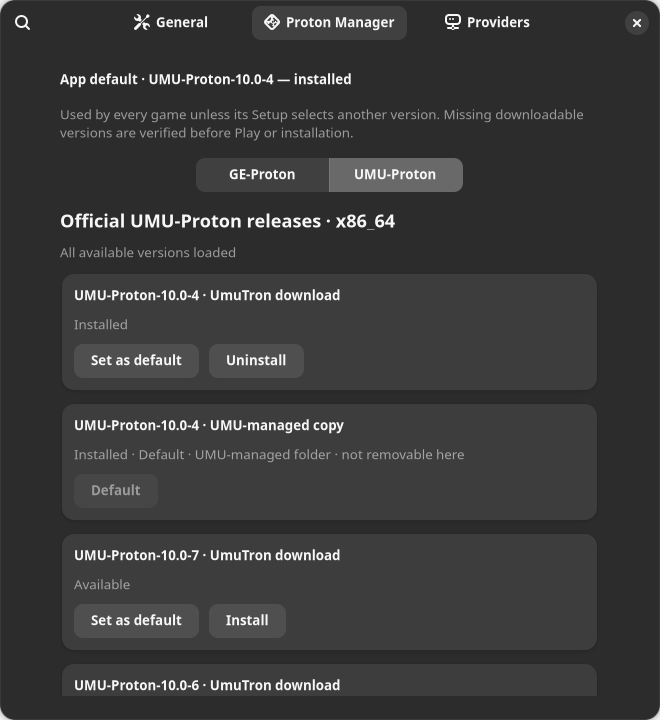
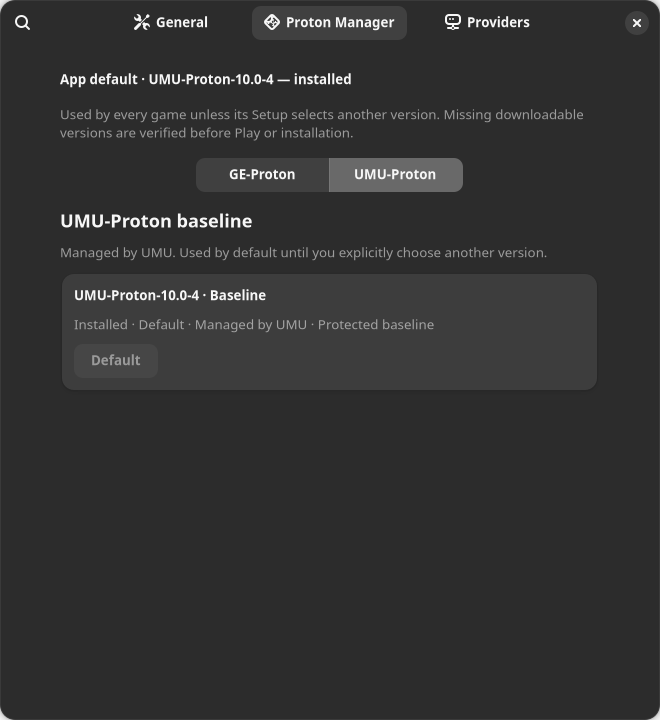
Show one protected UMU baseline with optional GE releases
Display the existing UMU-Latest runner once without removal controls or duplicate installation labels. Preserve the existing fresh-library UMU fallback and every explicit manual default; Settings neither installs runners nor loads a UMU release catalog. Existing UMU directories and exact release receipts remain unchanged.

Validation:108 core tests, focused native baseline/default fixtures, full UI smoke, Ruff and compilation pass. Native test renders inspected.

diff --git a/tools/proton_checks.py b/tools/proton_checks.py
@@ -61,6 +61,20 @@ with tempfile.TemporaryDirectory(prefix='umutron-proton-ui-') as temp:
     with tarfile.open(archive,'w:gz') as output:
         data=b'inert';item=tarfile.TarInfo(tag+'/proton');item.size=len(data);item.mode=0o755;output.addfile(item,io.BytesIO(data))
     manager=ProtonManager(library.root/'proton-manager',arch='x86_64',umu_root=Path(temp)/'umu/compatibilitytools');window.proton_manager=manager
+    # Fresh setup inherits UMU-Latest; Settings never installs either family.
+    fresh_before=library.path.read_bytes()
+    with patch.object(manager,'install') as install, patch.object(manager,'downloader') as downloader:
+        window.open_settings();settle()
+        fresh_settings=next(w for w in Gtk.Window.get_toplevels() if w.get_title()=='Settings' and w.get_visible())
+        fresh=window.proton_panel
+        baseline=next(c for c in fresh.controls if c['baseline'])
+        assert baseline['value']=='UMU-Latest' and baseline['default'].get_label()=='Default'
+        assert 'Not installed' in baseline['status'].get_text() and 'first Play' in baseline['status'].get_text()
+        assert not baseline['primary'].get_visible()
+        baseline['primary'].emit('clicked');install.assert_not_called();downloader.assert_not_called()
+        assert manager.installed()==[] and not fresh.items['GE-Proton']
+        assert library.path.read_bytes()==fresh_before
+        fresh_settings.close();settle()
     def payload(family,page):
         versions=range(7,3,-1) if page==1 else range(3,0,-1)
         return [dict(tag_name=(family+('11-' if family=='GE-Proton' else '-10.0-')+str(i)),assets=[dict(name=(family+('11-' if family=='GE-Proton' else '-10.0-')+str(i))+'.tar.gz',size=archive.stat().st_size,digest='sha256:'+hashlib.sha256(archive.read_bytes()).hexdigest(),browser_download_url='https://github.com/'+REPOS[family]+'/releases/download/'+(family+('11-' if family=='GE-Proton' else '-10.0-')+str(i))+'/'+(family+('11-' if family=='GE-Proton' else '-10.0-')+str(i))+'.tar.gz')]) for i in versions]
@@ -84,7 +98,9 @@ with tempfile.TemporaryDirectory(prefix='umutron-proton-ui-') as temp:
         family=next(f for f,r in REPOS.items() if r in url)
         return payload(family,int(url.rsplit('=',1)[1]))
     manager.transport=transport
+    download_calls=[]
     def download(url,path,limit,cancel,progress):
+        download_calls.append(url)
         Path(path).write_bytes(archive.read_bytes());progress(archive.stat().st_size)
     manager.downloader=download
     window.demo=False
@@ -105,20 +121,29 @@ with tempfile.TemporaryDirectory(prefix='umutron-proton-ui-') as temp:
     assert settings.get_focus() is refreshed['primary'], 'Background catalog must retain the active row control'
     assert len(panel.items['GE-Proton'])==4
     assert library.path.read_bytes()==saved_before, 'Opening/loading the manager must preserve saved Valve/custom selections'
+    assert download_calls==[], 'Normal Settings catalog loading must not install runners'
     assert 'Proton 11.0-2' in panel.default.get_text()
     catalog=next(c for c in panel.controls if c['release'] and c['release']['version']=='GE-Proton11-6')
     assert catalog['value']=='release:GE-Proton:GE-Proton11-6'
     assert manager.status(catalog['release'])['state']=='Available'
     preserved=next(c for c in panel.controls if not c['release'] and c['value']==str(local))
     assert 'unverified' in preserved['status'].get_text()
-    local_umu=next(c for c in panel.controls if not c['release'] and c['value']==str(umu))
-    assert 'UMU-managed' in local_umu['status'].get_text() and not local_umu['primary'].get_visible()
-    downloaded_umu=next(c for c in panel.controls if c['release'] and c['value']==release_selector(umu_release))
-    assert 'UmuTron download' in downloaded_umu['heading'].get_text()
-    assert 'UMU-managed copy' in local_umu['heading'].get_text()
-    assert downloaded_umu['heading'].get_text()!=local_umu['heading'].get_text()
-    assert downloaded_umu['primary'].get_label()=='Uninstall' and downloaded_umu['primary'].get_visible()
+    local_umu=next(c for c in panel.controls if c['baseline'])
+    assert local_umu['value']=='UMU-Latest'
+    assert 'Managed by UMU' in local_umu['status'].get_text() and not local_umu['primary'].get_visible()
+    assert 'UMU-Proton-10.0-4' in local_umu['heading'].get_text()
+    assert panel.rows['UMU-Proton'].get_first_child().get_next_sibling() is None
+    assert not any(c['release'] and c['release']['family']=='UMU-Proton' for c in panel.controls)
+    assert 'verified' not in local_umu['status'].get_text().lower()
+    assert not any(isinstance(w,Gtk.Label) and 'copy' in w.get_text().lower() for w in widgets(panel))
     assert manager.status(umu_release)['state']=='Installed'
+    # A receipt in a different installation never establishes the UMU baseline's identity.
+    receipt=managed_umu/'umutron-release.json';valid_receipt=receipt.read_bytes()
+    receipt.write_text(json.dumps(manager.cached('GE-Proton')[0]));panel.render()
+    assert manager.status(umu_release)['state']=='Available'
+    assert panel.rows['UMU-Proton'].get_first_child().get_next_sibling() is None
+    assert not next(c for c in panel.controls if c['baseline'])['primary'].get_visible()
+    receipt.write_bytes(valid_receipt)
     manager.has_more=lambda family,page:page==1
     panel.more['GE-Proton']=True
     panel.scrolls['GE-Proton'].emit('edge-reached',Gtk.PositionType.BOTTOM)
@@ -131,6 +156,13 @@ with tempfile.TemporaryDirectory(prefix='umutron-proton-ui-') as temp:
     assert library.data['settings']['default_proton']==release_selector(first['release'])
     first=next(c for c in panel.controls if c['release'] and c['release']['version']==tag)
     assert first['default'].get_label()=='Default' and not first['default'].get_sensitive()
+    saved_manual=library.path.read_bytes();settings.close();settle();window.open_settings();settle()
+    settings=next(w for w in Gtk.Window.get_toplevels() if w.get_title()=='Settings' and w.get_visible())
+    settings.set_visible_page(window.proton_settings_page);panel=window.proton_panel
+    wait(lambda:not panel.loading)
+    assert library.path.read_bytes()==saved_manual, 'Reopen/background refresh must retain the chosen GE default'
+    assert next(c for c in panel.controls if c['baseline'])['default'].get_label()=='Set as default'
+    first=next(c for c in panel.controls if c['release'] and c['release']['version']==tag)
     capture(settings,args.output/'proton-ge.png')
     # Referenced removal is blocked before confirmation and leaves the runner intact.
     first['primary'].emit('clicked');settle()
@@ -143,16 +175,25 @@ with tempfile.TemporaryDirectory(prefix='umutron-proton-ui-') as temp:
     assert confirmation.get_heading().startswith('Uninstall ')
     confirmation.emit('response','cancel');settle()
     assert manager.target(first['release']).is_dir(), 'Cancelling uninstall must keep files'
+    # An explicit baseline action selects the mutable UMU alias, not a fixed archive.
     panel.set_default(release_selector(first['release']))
+    next(c for c in panel.controls if c['baseline'])['default'].emit('clicked')
+    assert library.data['settings']['default_proton']=='UMU-Latest'
+    automatic_before=library.path.read_bytes()
+    (umu/'version').write_text('1774856027 UMU-Proton-10.0-5\n');panel.render()
+    assert 'UMU-Proton-10.0-5' in next(c for c in panel.controls if c['baseline'])['heading'].get_text()
+    assert library.path.read_bytes()==automatic_before
+    (umu/'version').write_text('1774856027 UMU-Proton-10.0-4\n');panel.render()
     panel.set_default(str(umu))
     panel.stack.set_visible_child_name('UMU-Proton');settle();capture(settings,args.output/'proton-umu.png')
-    local_umu=next(c for c in panel.controls if not c['release'] and c['value']==str(umu))
+    local_umu=next(c for c in panel.controls if c['baseline'])
     assert local_umu['default'].get_label()=='Default'
     assert managed_umu.is_dir() and umu.is_dir(), 'Presentation must not merge or remove separate installations'
+    assert not any(REPOS['UMU-Proton'] in url for url in calls), 'Settings must not request a UMU release catalog'
     manager.transport=lambda _:(_ for _ in ()).throw(OSError('Fixture offline'))
-    panel.load('UMU-Proton',1);wait(lambda:not panel.loading)
-    assert 'cached' in panel.statuses['UMU-Proton'].get_text().lower() and panel.retry['UMU-Proton'].get_visible()
-    assert len(panel.items['UMU-Proton'])==4
+    panel.stack.set_visible_child_name('GE-Proton');panel.load('GE-Proton',1);wait(lambda:not panel.loading)
+    assert 'cached' in panel.statuses['GE-Proton'].get_text().lower() and panel.retry['GE-Proton'].get_visible()
+    assert len(panel.items['GE-Proton'])==7
     capture(settings,args.output/'proton-offline.png')
     settings.close();settle()
     # A previously saved custom/Valve path remains a usable Setup choice, even
@@ -181,4 +222,4 @@ with tempfile.TemporaryDirectory(prefix='umutron-proton-ui-') as temp:
     capture(window.editor,args.output/'proton-game-setup.png')
     window.cancel_editor();manager.releases=original_releases
     window.controller.close();window.destroy();window.pool.shutdown(wait=True)
-print('PASS: exactly GE/UMU tabs; saved Valve/custom selectors preserved; distinct same-version copy labels and ownership; cached/background catalog; scroll pagination; install/default/uninstall state; referenced removal blocked; offline retention; visible Setup selector; stale async cancellation; no live data or execution')
+print('PASS: one protected UMU baseline; fresh UMU default with no GE preinstall; no Settings downloads or UMU catalog; manual defaults survive reopen/refresh; mutable alias and custom selections preserved; duplicate folders/receipts untouched; GE pagination/install/default/uninstall/cancel/offline; stale Setup cancellation; no live data or execution')

diff --git a/game_library/proton_ui.py b/game_library/proton_ui.py
@@ -70,7 +70,7 @@ class ProtonPanel(Gtk.Box):
         self.rows, self.statuses, self.retry, self.scrolls = {}, {}, {}, {}
         for family in DOWNLOAD_FAMILIES:
             page = box()
-            page.append(text('Official ' + family + ' releases · ' + self.manager.arch, 'title-3'))
+            page.append(text('UMU-Proton baseline' if family == 'UMU-Proton' else 'Optional GE-Proton releases · ' + self.manager.arch, 'title-3'))
             status = text('', 'dim-label')
             page.append(status)
             self.statuses[family] = status
@@ -87,7 +87,7 @@ class ProtonPanel(Gtk.Box):
             self.rows[family], self.scrolls[family] = rows, scroll
             scroll.connect('edge-reached', lambda _, edge, f=family: self.next_page(f) if edge == Gtk.PositionType.BOTTOM else None)
             self.stack.add_titled(page, family, family)
-            if family in REPOS:
+            if family == 'GE-Proton':
                 for release in cached_all(self.manager, family):
                     self.items[family][release_selector(release)] = release
         self.stack.set_visible_child_name('GE-Proton')
@@ -102,8 +102,7 @@ class ProtonPanel(Gtk.Box):
         self.started = True
         GLib.timeout_add(250, self.update)
         if not self.window.demo:
-            for family in REPOS:
-                self.load(family, 1)
+            self.load('GE-Proton', 1)
         else:
             for family in REPOS:
                 self.messages[family] = 'Demo catalog · downloads disabled'
@@ -111,15 +110,15 @@ class ProtonPanel(Gtk.Box):
 
     def maybe_load_visible(self):
         family = self.stack.get_visible_child_name()
-        if family in REPOS and not self.window.demo and not self.items[family] and family not in self.loading:
+        if family == 'GE-Proton' and not self.window.demo and not self.items[family] and family not in self.loading:
             self.load(family, 1)
 
     def next_page(self, family):
-        if family in REPOS and self.more[family] and family not in self.loading:
+        if family == 'GE-Proton' and self.more[family] and family not in self.loading:
             self.load(family, self.pages[family] + 1)
 
     def load(self, family, page):
-        if family in self.loading or not self.alive:
+        if family != 'GE-Proton' or family in self.loading or not self.alive:
             return
         self.loading.add(family)
         self.retry_pages[family] = page
@@ -192,6 +191,12 @@ class ProtonPanel(Gtk.Box):
             rows = self.rows[family]
             while child := rows.get_first_child():
                 rows.remove(child)
+            if family == 'UMU-Proton':
+                baseline = self.manager.umu_tools / 'UMU-Latest'
+                title = runner_label(str(baseline)).removesuffix(' — installed') if (baseline / 'proton').is_file() else 'UMU-Proton — automatic latest'
+                self.statuses[family].set_text('Managed by UMU. Used by default until you explicitly choose another version.')
+                self.add_row(rows, title, 'UMU-Latest', selected, baseline=True)
+                continue
             covered = set()
             releases = self.items.get(family, {})
             pending = []
@@ -218,7 +223,7 @@ class ProtonPanel(Gtk.Box):
         for family, value in scroll_values.items():
             self.scrolls[family].get_vadjustment().set_value(value)
 
-    def add_row(self, rows, title, value, selected, release=None):
+    def add_row(self, rows, title, value, selected, release=None, baseline=False):
         card = box()
         card.add_css_class('card')
         for edge in ('top', 'bottom', 'start', 'end'):
@@ -227,12 +232,14 @@ class ProtonPanel(Gtk.Box):
         for edge in ('top', 'bottom', 'start', 'end'):
             getattr(inner, 'set_margin_' + edge)(12)
         card.append(inner)
-        if release:
+        if baseline:
+            origin = 'Baseline'
+        elif release:
             origin = 'UmuTron download'
         elif Path(value).absolute().parent == self.manager.umu_tools.absolute():
-            origin = 'UMU-managed copy'
+            origin = 'Managed by UMU'
         else:
-            origin = 'Local copy'
+            origin = 'Local installation'
         heading = text(title + ' · ' + origin, 'heading')
         inner.append(heading)
         status = text('', 'dim-label')
@@ -245,12 +252,14 @@ class ProtonPanel(Gtk.Box):
         row.append(primary)
         cancel = action('Cancel', lambda: self.manager.cancel(release))
         row.append(cancel)
-        control = dict(card=card, heading=heading, status=status, default=default, primary=primary, cancel=cancel, value=value, release=release)
+        control = dict(card=card, heading=heading, status=status, default=default, primary=primary, cancel=cancel, value=value, release=release, baseline=baseline)
         primary.connect('clicked', lambda _: self.primary(control))
         self.controls.append(control)
         rows.append(card)
 
     def primary(self, control):
+        if control['baseline']:
+            return
         release = control['release']
         path = self.manager.status(release).get('path') if release else control['value']
         try:
@@ -266,7 +275,13 @@ class ProtonPanel(Gtk.Box):
         selected = self.window.library.data['settings'].get('default_proton') or 'UMU-Latest'
         for control in self.controls:
             release, value = control['release'], control['value']
-            status = self.manager.status(release) if release else {'state': 'Installed', 'path': value, 'error': ''}
+            baseline = control['baseline']
+            if baseline:
+                folder = self.manager.umu_tools / 'UMU-Latest'
+                present = (folder / 'proton').is_file()
+                status = {'state': 'Installed' if present else 'Not installed', 'path': str(folder) if present else '', 'error': ''}
+            else:
+                status = self.manager.status(release) if release else {'state': 'Installed', 'path': value, 'error': ''}
             phase, path = status['state'], status.get('path', '')
             active = phase in BUSY
             same = selected == value or bool(release and selected == release_selector(release))
@@ -274,11 +289,13 @@ class ProtonPanel(Gtk.Box):
                 same = same or Path(selected).resolve() == Path(path).resolve()
             control['default'].set_label('Default' if same else 'Set as default')
             control['default'].set_sensitive(not same and not active)
-            managed = bool(path and self.manager.managed(path))
+            managed = bool(not baseline and path and self.manager.managed(path))
             detail = phase + (' · Default' if same else '')
             if active and phase == 'Downloading':
                 detail += f" · {int(status.get('progress', 0) * 100)}%"
-            if path and not release:
+            if baseline:
+                detail += ' · Managed by UMU · Protected baseline' if path else ' · Runner prepared by UMU on first Play'
+            elif path and not release:
                 detail += ' · ' + self.manager.local_origin(path)
             if status.get('error'):
                 detail += ' · ' + status['error']

diff --git a/tests/test_runner_selection.py b/tests/test_runner_selection.py
@@ -1,10 +1,36 @@
 from copy import deepcopy
+from pathlib import Path
+import tempfile
 import unittest
 
-from game_library.runner_selection import INHERIT, effective_selector, parse_release, release_selector
+from game_library.library import Library
+from game_library.proton_manager import ProtonManager
+from game_library.runner_selection import INHERIT, effective_selector, global_selector, parse_release, release_selector
 
 
 class RunnerSelectionTests(unittest.TestCase):
+    def test_fresh_library_uses_umu_without_installing_ge_or_persisting_a_pin(self):
+        with tempfile.TemporaryDirectory() as temp:
+            root=Path(temp);library=Library(root/'library')
+            before=deepcopy(library.data)
+            self.assertFalse(library.path.exists())
+            manager=ProtonManager(library.root/'proton-manager',umu_root=root/'umu',create=False)
+            self.assertEqual(global_selector(library.root),'UMU-Latest')
+            self.assertEqual(effective_selector(library.new_game(),global_selector(library.root)),'UMU-Latest')
+            self.assertEqual(manager.installed(),[])
+            self.assertFalse(manager.tools.exists())
+            self.assertEqual(library.data,before)
+            self.assertFalse(library.path.exists())
+
+    def test_existing_explicit_default_survives_library_reopen(self):
+        with tempfile.TemporaryDirectory() as temp:
+            library=Library(Path(temp)/'library')
+            for value in ('release:GE-Proton:GE-Proton11-7','release:UMU-Proton:UMU-Proton-10.0-4','/custom/UMU-Proton-10.0-4','GE-Latest'):
+                library.set_default_proton(value);before=library.path.read_bytes()
+                reopened=Library(library.root)
+                self.assertEqual(global_selector(reopened.root),value)
+                self.assertEqual(reopened.path.read_bytes(),before)
+
     def test_global_default_and_explicit_game_override(self):
         game = {'launch': {}, 'installation': {}}
         self.assertEqual(effective_selector(game, 'global'), 'global')

diff --git a/game_library/proton_manager.py b/game_library/proton_manager.py
@@ -318,7 +318,7 @@ class ProtonManager:
                 return dict(job)
         collision = target.exists() or target.is_symlink()
         return {'state': 'Available', 'path': '', 'progress': 0,
-                'error': 'A local copy occupies this installation folder. It is preserved and listed separately; remove that local copy before downloading this release.' if collision else ''}
+                'error': 'An existing installation occupies this destination. It is preserved; this release cannot be downloaded into the same folder.' if collision else ''}
 
     def local_origin(self, path):
         path = Path(path).absolute()
@@ -400,7 +400,7 @@ class ProtonManager:
                 self.downloader(release['url'], archive, release['size'], cancel,
                                 lambda n: progress(state='Downloading', progress=min(1, n / release['size']), downloaded_bytes=n, total_bytes=release['size']))
                 if archive.stat().st_size != release['size']:
-                    raise ValueError('Incomplete runner download. Retry to download a fresh copy.')
+                    raise ValueError('Incomplete runner download. Retry to download the archive again.')
                 progress(state='Verifying')
                 digest = release.get('digest', '')
                 if digest:

diff --git a/game_library/__init__.py b/game_library/__init__.py
@@ -1,6 +1,6 @@
 """UmuTron: a standalone installed-game library and UMU launcher."""
 
-__version__ = "0.4.20"
+__version__ = "0.4.21"
 
 APP_NAME = "UmuTron"
 APP_ID = "io.github.game_library_launcher"

diff --git a/README.md b/README.md
@@ -27,7 +27,7 @@ The app now appears as **UmuTron** in its window, Settings information, applicat
 - Optional overrides in collapsed **Advanced launch settings**, including Reset to defaults and custom paths. Normal Proton selection is visible in Setup.
 - Close to tray; **Show UmuTron** and explicit **Exit**. Without a supported tray host, close minimizes instead of making the app inaccessible. Reopening activates the existing instance.
 - One app-owned game or installer at a time. Stop targets only that launch's verified owned processes. Active operations continue under their supervisor if you explicitly Exit; reopening reconnects.
-- Two-tab Proton Manager: **GE-Proton** and **UMU-Proton**. Cached catalogs update in the background and load older releases while scrolling. Installed/default/available states share one list. Verified GE/UMU downloads support cancellation, retry and guarded uninstall of managed runners.
+- Two-tab Proton Manager: a protected **UMU-Proton** baseline and optional **GE-Proton** releases. GE catalogs update in the background and load older releases while scrolling; verified downloads support cancellation, retry and guarded uninstall of managed runners.
 - Local ZIP import/export, compact cards, filtering, light/dark/system themes and provider artwork.
 
 ## Desktop and fullscreen
@@ -54,7 +54,7 @@ This user-level installer writes code to `~/.local/opt/game-library-launcher` an
 
 ## Proton versions
 
-Settings → Proton Manager has two tabs: **GE-Proton** and **UMU-Proton**, with official release archives for this computer’s architecture. The local-only Valve Proton tab has been removed. Existing explicit Valve/custom runner paths and saved defaults remain usable through UMU and the per-game Setup selector; removing the tab does not uninstall software or rewrite selections. Same-version copies have distinct headings for **UmuTron download**, **UMU-managed copy**, or **Local copy**, retaining separate paths, receipts and removal rules.
+Settings → Proton Manager has two tabs: **GE-Proton** offers optional releases, while **UMU-Proton** shows one protected baseline managed by UMU. Fresh libraries inherit the mutable **UMU-Latest** policy; GE is neither installed nor selected automatically. If the baseline runner is absent, Settings says UMU prepares it on first explicit Play and does not download it when opened. A manually chosen default persists across reopen and refresh. Additional existing UMU folders remain on disk but are not repeated in this tab. The removed Valve tab stays removed; saved Valve/custom paths, exact release selections and per-game overrides remain usable without migration.
 
 Choose **Set as default** on a build. Manage Game → **Proton version** offers **Use default** and exact available/installed versions. Saving a choice never downloads or executes a game. After explicit Play or Launch Installer, a missing exact GE/UMU build downloads, checks its published digest, installs atomically, and only then starts UMU with its absolute path. Failed/cancelled preparation never starts the game; retry keeps the selected version. Concurrent requests reuse the same completed verified installation. Partial archives are discarded and retries fetch a fresh copy.
 

diff --git a/docs/VALIDATION.md b/docs/VALIDATION.md
@@ -174,3 +174,12 @@ Legacy UMU/GE automatic policy resolution, actual vendor binaries, real game com
 106 core tests, Ruff F checks and Python compilation pass. The native Proton fixture asserts exactly GE-Proton/UMU-Proton tabs, preserves a saved Valve global default and custom symlink selection without rewriting the library, and distinguishes two installed same-version UMU copies while retaining their selectors and removal rules. Cached/background results, pagination, explicit install/default/uninstall, cancellation, offline retry and stale Setup callbacks remain covered. The complete native UI smoke suite also passes.
 
 Inspected actual GTK test renders at 660×720 show both tabs and the differentiated copy headings without clipping. These are temporary Broadway fixtures with inert runners, not live-desktop screenshots or real vendor installations. No launch/download/uninstall implementation changed. Existing runners, prefixes and saved configuration are not migrated or removed.
+
+
+## Single protected UMU baseline — 0.4.21
+
+108 core tests, Ruff F checks and compilation pass. New persistence fixtures establish that fresh libraries inherit UMU-Latest without installing GE or persisting a version pin, and existing explicit GE/UMU/custom selections survive reopen.
+
+The focused native GTK fixture verifies exactly one protected baseline row despite separate same-version installations, no removal action or verified-receipt claim for the UMU-managed folder, unchanged baseline presentation under a wrong receipt elsewhere, and no downloads or UMU catalog calls when Settings opens. A manual GE default survives reopen and background refresh; explicit baseline selection retains the mutable alias as its reported version changes. Saved custom paths and existing folders remain intact. GE catalog/pagination/install/default/removal guards/cancel/offline and stale Setup callbacks pass. The full native UI smoke suite passes.
+
+Inspected 660×720 GTK test renders show a single baseline and optional GE catalog without copy labels. No real runner, game, installer or prefix was created/deleted by these fixtures; no live-desktop or hardware-controller QA is claimed. Prefix/runtime recovery remains a separate undeployed POC.

diff --git a/docs/DESIGN.md b/docs/DESIGN.md
@@ -167,3 +167,12 @@ Catalog completion is scoped to its living Settings dialog or exact Setup draft,
 The current manager has exactly two tabs, GE-Proton and UMU-Proton, opening on GE-Proton. The former local-only official Proton tab, empty channel groups and folder picker are removed. This supersedes the three-tab presentation in 0.4.19; it does not change runner selection or launch contracts. Existing saved Valve/custom paths, symlink spellings, global defaults and installation pins remain usable and are not migrated or deleted. The per-game selector continues to include saved local runners.
 
 Rows identify their source in the heading: UmuTron download, UMU-managed copy, or Local copy. Two copies reporting the same version remain distinct installations with unchanged selectors, receipt requirements and uninstall safeguards. The change does not merge files, adopt unverified folders, remove runners or touch prefixes.
+
+
+## Protected UMU baseline — 0.4.21
+
+The UMU-Proton tab shows one baseline using the existing `UMU-Latest` folder's bounded version metadata. It is labeled Managed by UMU and has no install/uninstall action. This is provenance, not proof that the mutable folder matches an exact verified release. Extra managed/local UMU installations and receipts remain intact; they are not listed repeatedly here. GE-Proton remains an optional catalog with no fresh-install runner or default.
+
+The existing fresh-library fallback remains `UMU-Latest`; no settings migration or launch behavior changes. An explicit saved default, including GE, an exact UMU release or custom path, is retained on reopen and refresh. Only an explicit Set as default action changes it. Selecting the baseline saves the mutable alias, never the currently reported version. An existing absolute baseline path remains recognized without rewriting it.
+
+When the baseline is absent, the UI states that the runner is prepared by UMU on first Play, reflecting the existing explicit-launch behavior. Opening Settings performs no runner installation or UMU catalog request. This is unrelated to the separate prefix/runtime recovery POC and does not deploy recovery functionality.
